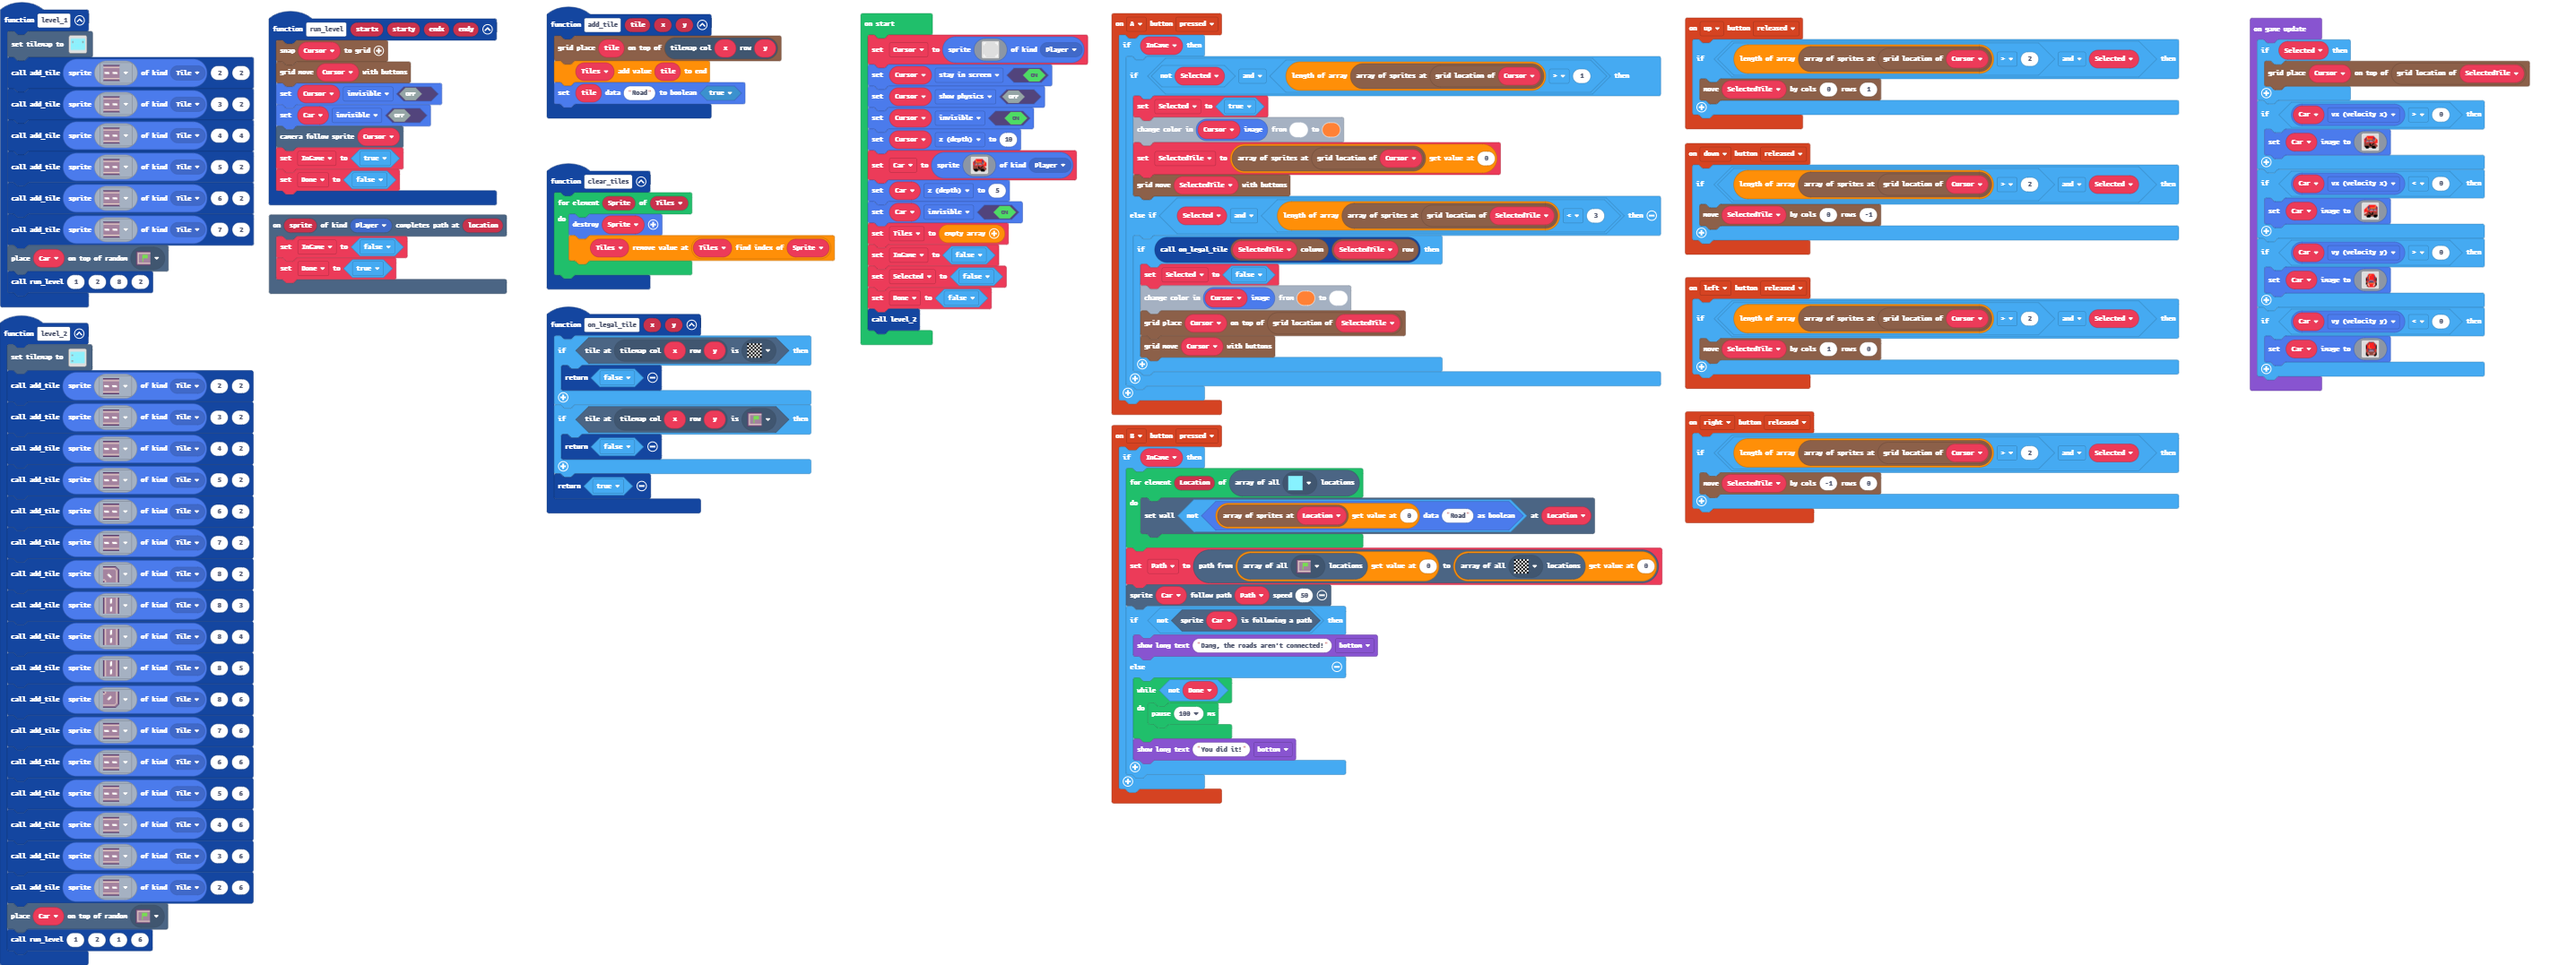
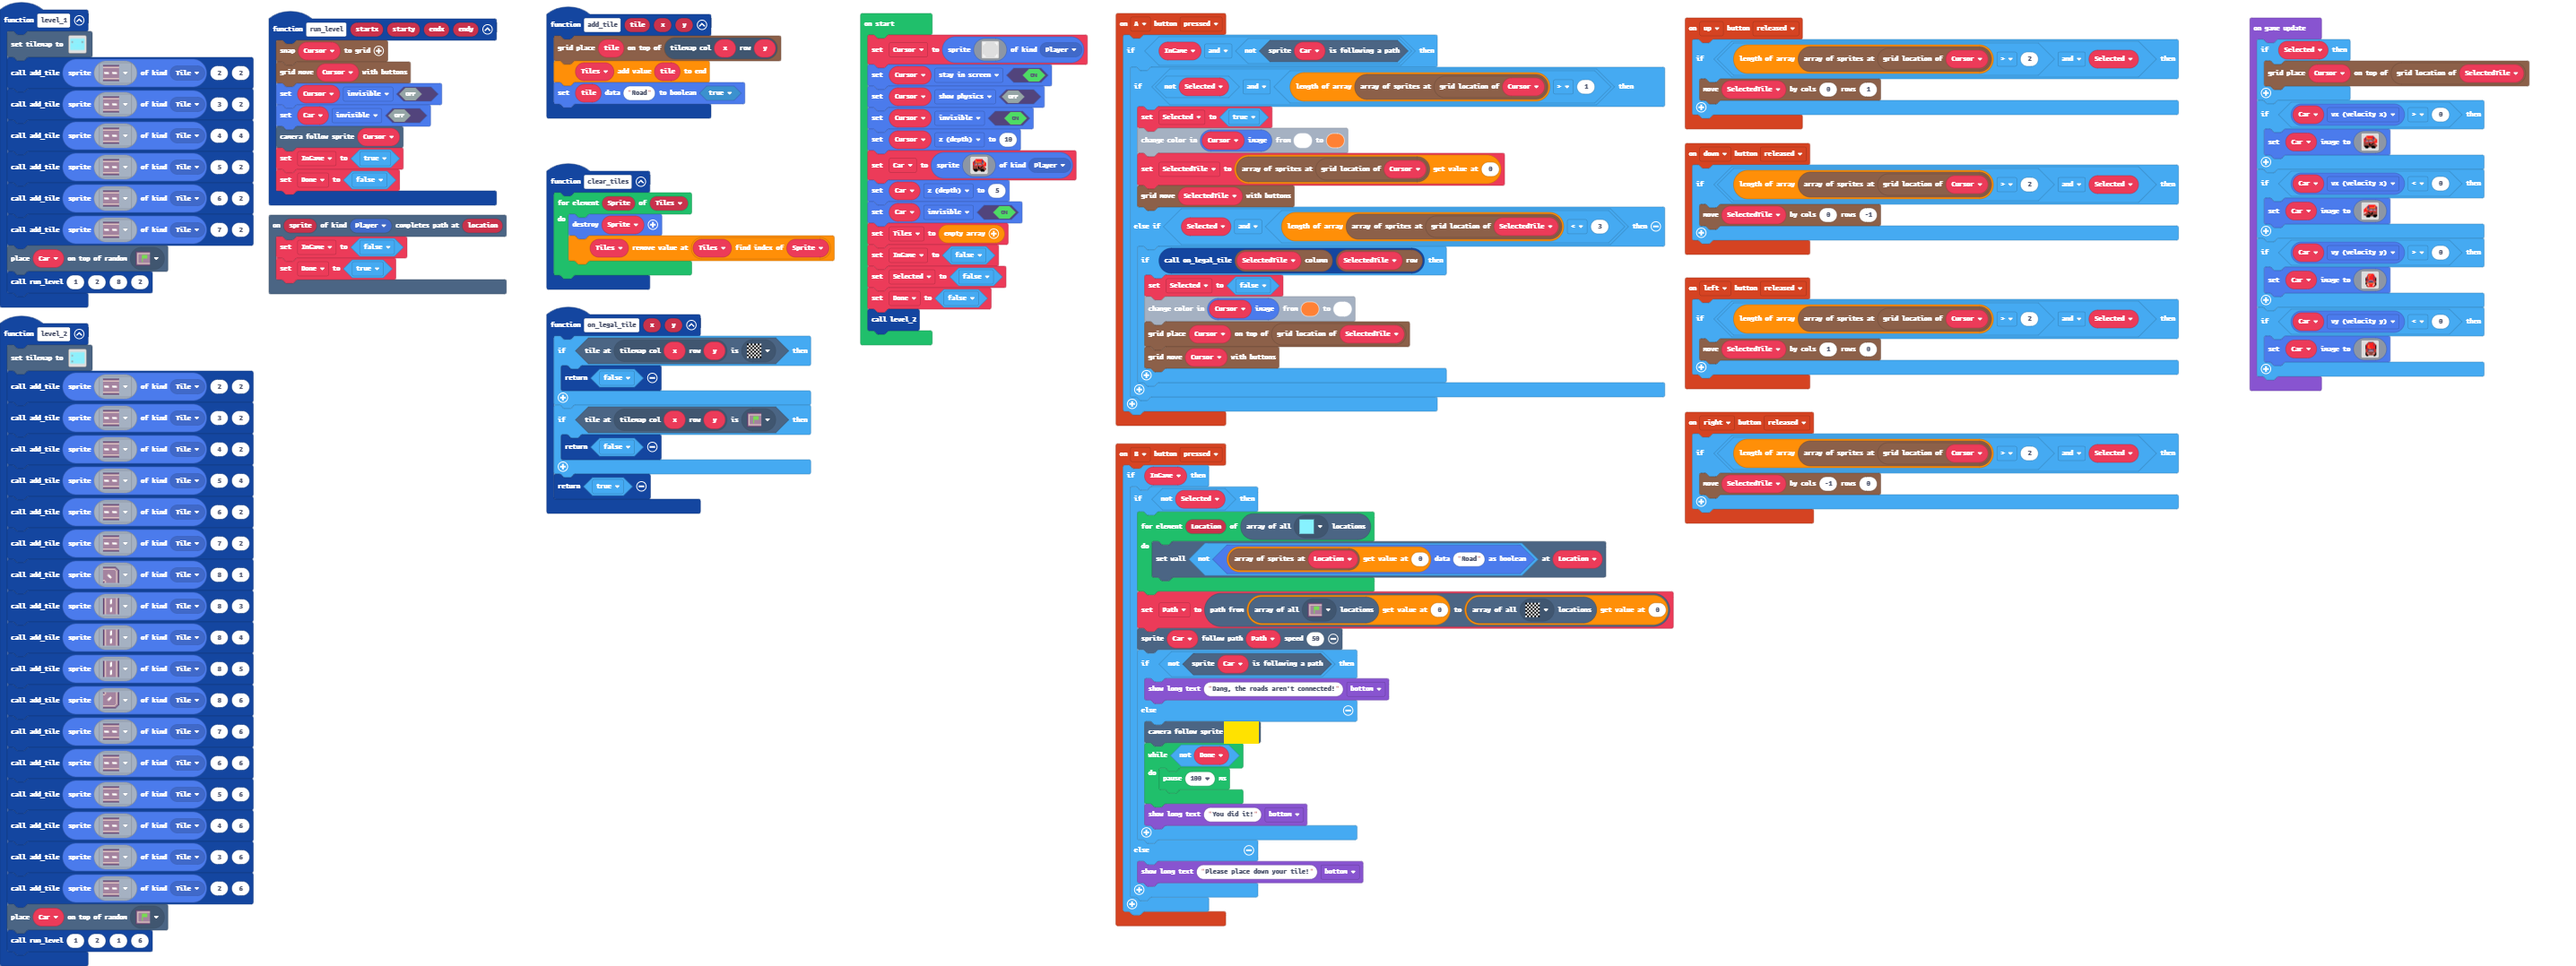
Finished level 2 and fixed more bugs in editing system

diff --git a/main.ts b/main.ts
@@ -3,23 +3,28 @@ namespace SpriteKind {
 }
 controller.B.onEvent(ControllerButtonEvent.Pressed, function () {
     if (InGame) {
-        for (let Location of tiles.getTilesByType(myTiles.tile1)) {
-            tiles.setWallAt(Location, !(sprites.readDataBoolean(grid.getSprites(Location)[0], "Road")))
-        }
-        Path = scene.aStar(tiles.getTilesByType(myTiles.tile5)[0], tiles.getTilesByType(myTiles.tile4)[0])
-        scene.followPath(Car, Path, 50)
-        if (!(scene.spriteIsFollowingPath(Car))) {
-            game.showLongText("Dang, the roads aren't connected!", DialogLayout.Bottom)
-        } else {
-            while (!(Done)) {
-                pause(100)
+        if (!(Selected)) {
+            for (let Location of tiles.getTilesByType(myTiles.tile1)) {
+                tiles.setWallAt(Location, !(sprites.readDataBoolean(grid.getSprites(Location)[0], "Road")))
             }
-            game.showLongText("You did it!", DialogLayout.Bottom)
+            Path = scene.aStar(tiles.getTilesByType(myTiles.tile5)[0], tiles.getTilesByType(myTiles.tile4)[0])
+            scene.followPath(Car, Path, 50)
+            if (!(scene.spriteIsFollowingPath(Car))) {
+                game.showLongText("Dang, the roads aren't connected!", DialogLayout.Bottom)
+            } else {
+                scene.cameraFollowSprite(Car)
+                while (!(Done)) {
+                    pause(100)
+                }
+                game.showLongText("You did it!", DialogLayout.Bottom)
+            }
+        } else {
+            game.showLongText("Please place down your tile!", DialogLayout.Bottom)
         }
     }
 })
 controller.A.onEvent(ControllerButtonEvent.Pressed, function () {
-    if (InGame) {
+    if (InGame && !(scene.spriteIsFollowingPath(Car))) {
         if (!(Selected) && grid.getSprites(grid.getLocation(Cursor)).length > 1) {
             Selected = true
             Cursor.image.replace(1, 4)
@@ -97,10 +102,10 @@ function level_2 () {
     add_tile(sprites.create(sprites.vehicle.roadHorizontal, SpriteKind.Tile), 2, 2)
     add_tile(sprites.create(sprites.vehicle.roadHorizontal, SpriteKind.Tile), 3, 2)
     add_tile(sprites.create(sprites.vehicle.roadHorizontal, SpriteKind.Tile), 4, 2)
-    add_tile(sprites.create(sprites.vehicle.roadHorizontal, SpriteKind.Tile), 5, 2)
+    add_tile(sprites.create(sprites.vehicle.roadHorizontal, SpriteKind.Tile), 5, 4)
     add_tile(sprites.create(sprites.vehicle.roadHorizontal, SpriteKind.Tile), 6, 2)
     add_tile(sprites.create(sprites.vehicle.roadHorizontal, SpriteKind.Tile), 7, 2)
-    add_tile(sprites.create(sprites.vehicle.roadTurn2, SpriteKind.Tile), 8, 2)
+    add_tile(sprites.create(sprites.vehicle.roadTurn2, SpriteKind.Tile), 8, 1)
     add_tile(sprites.create(sprites.vehicle.roadVertical, SpriteKind.Tile), 8, 3)
     add_tile(sprites.create(sprites.vehicle.roadVertical, SpriteKind.Tile), 8, 4)
     add_tile(sprites.create(sprites.vehicle.roadVertical, SpriteKind.Tile), 8, 5)
